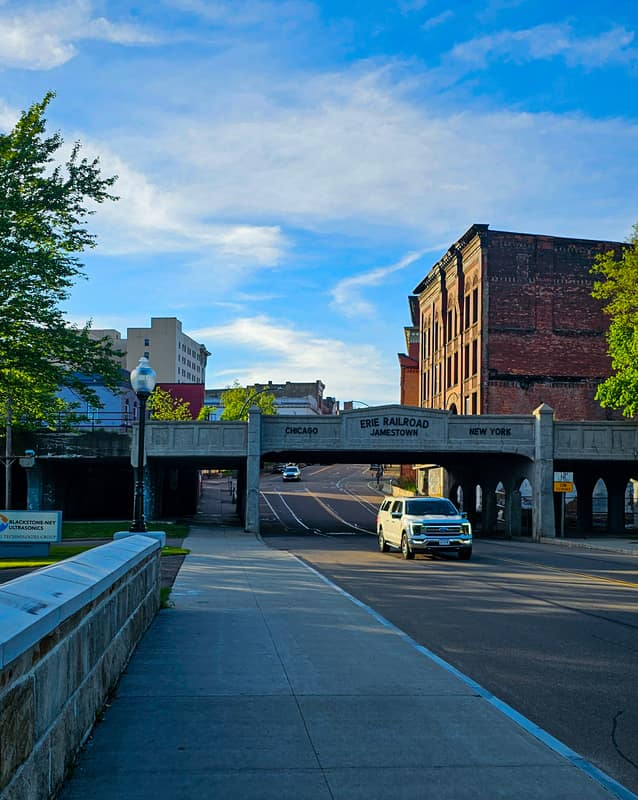
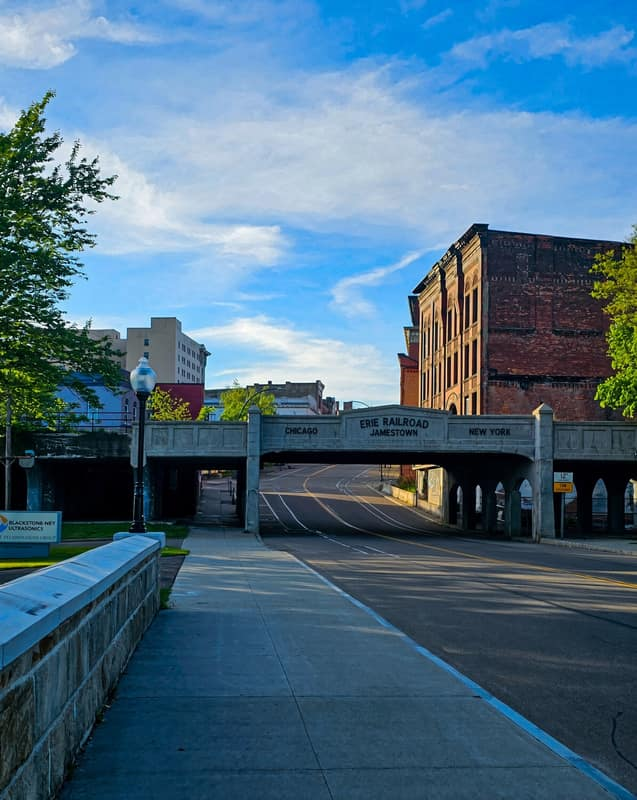
Use car-free version of the Erie bridge photo in hero

diff --git a/components/Hero.tsx b/components/Hero.tsx
@@ -46,16 +46,16 @@ export default function Hero() {
         <picture className="hero-photo-fade">
           <source
             type="image/webp"
-            srcSet="/images/jamestown-erie-bridge-800.webp 638w, /images/jamestown-erie-bridge-1600.webp 1276w"
+            srcSet="/images/jamestown-erie-bridge-800.webp 637w, /images/jamestown-erie-bridge-1568.webp 1248w"
             sizes="(min-width: 1024px) 45vw, 100vw"
           />
           {/* eslint-disable-next-line @next/next/no-img-element */}
           <img
-            src="/images/jamestown-erie-bridge-1600.jpg"
-            srcSet="/images/jamestown-erie-bridge-800.jpg 638w, /images/jamestown-erie-bridge-1600.jpg 1276w"
+            src="/images/jamestown-erie-bridge-1568.jpg"
+            srcSet="/images/jamestown-erie-bridge-800.jpg 637w, /images/jamestown-erie-bridge-1568.jpg 1248w"
             sizes="(min-width: 1024px) 45vw, 100vw"
-            width={1276}
-            height={1600}
+            width={1248}
+            height={1568}
             alt="Erie Railroad bridge reading Chicago, Jamestown, New York in downtown Jamestown"
             // Lazy so the photo never competes with the hero text on slow mobile connections; on desktop it is
             // in the viewport at first layout, so it still starts loading right away.
